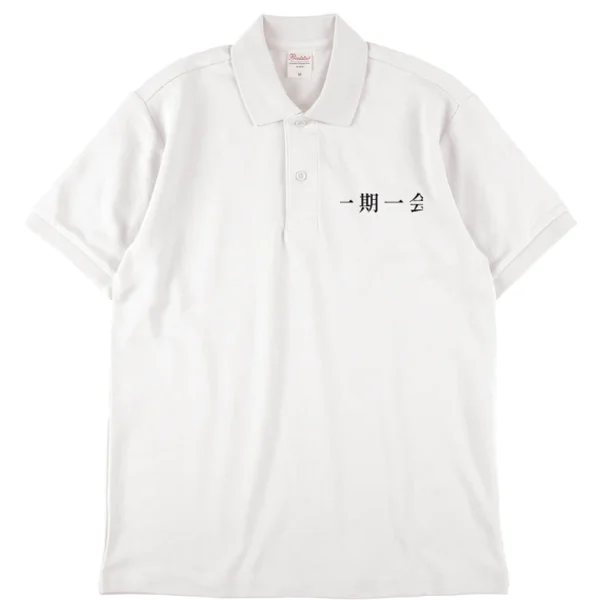
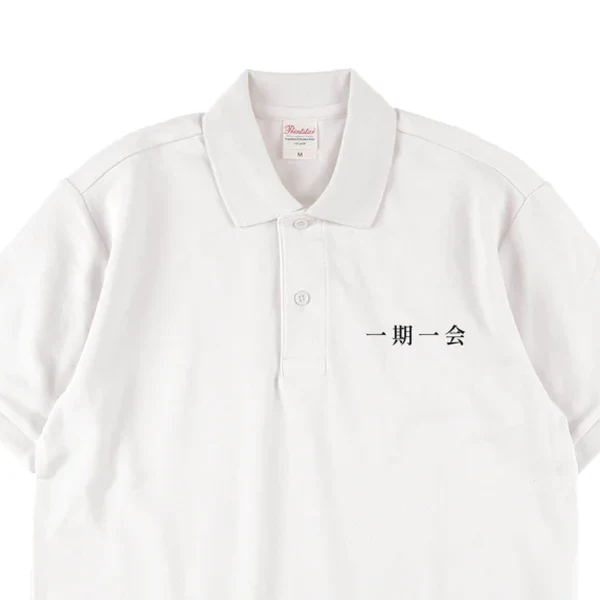
グッズ: 仕事着カードを新しいポロ（一期一会）に差し替え。非公開にした古い商品へのリンク(404)を直した

diff --git a/goods/index.html b/goods/index.html
@@ -174,12 +174,12 @@
           </div>
         </article>
         <article class="card item-card reveal">
-          <a class="card-img" href="https://suzuri.jp/hinagado/21375444/printstar-5-8oz-basic-polo-shirt-for-shop/m/white" rel="noopener" target="_blank" tabindex="-1" aria-hidden="true"><img src="../assets/img/books/hinaga_business.webp" alt="" loading="lazy" width="600" height="600"></a>
+          <a class="card-img" href="https://suzuri.jp/hinagado/21379049/printstar-5-8oz-basic-polo-shirt-for-shop/m/white" rel="noopener" target="_blank" tabindex="-1" aria-hidden="true"><img src="../assets/img/books/hinaga_business.webp" alt="" loading="lazy" width="600" height="600"></a>
           <div class="card-body">
             <span class="card-en">HINAGA</span>
-            <h3><a class="card-title" href="https://suzuri.jp/hinagado/21375444/printstar-5-8oz-basic-polo-shirt-for-shop/m/white" rel="noopener" target="_blank">明朝のことば（仕事着）</a></h3>
+            <h3><a class="card-title" href="https://suzuri.jp/hinagado/21379049/printstar-5-8oz-basic-polo-shirt-for-shop/m/white" rel="noopener" target="_blank">明朝のことば（仕事着）</a></h3>
             <p>一期一会・段取り八分・笑顔でいこう・感謝・初心。ポロシャツ・長袖ポロ・カーディガンにも。</p>
-            <div class="item-links"><a class="badge play" href="https://suzuri.jp/hinagado/21375444/printstar-5-8oz-basic-polo-shirt-for-shop/m/white" rel="noopener" target="_blank">服を見る →</a></div>
+            <div class="item-links"><a class="badge play" href="https://suzuri.jp/hinagado/21379049/printstar-5-8oz-basic-polo-shirt-for-shop/m/white" rel="noopener" target="_blank">服を見る →</a></div>
           </div>
         </article>
       </div>
